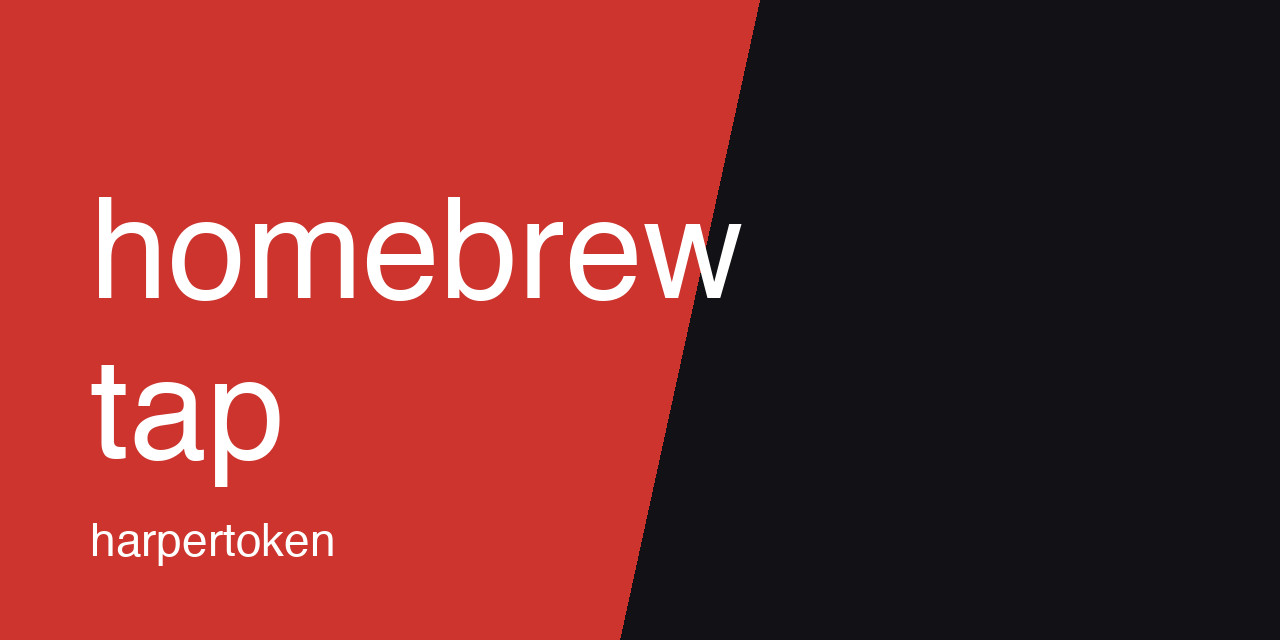
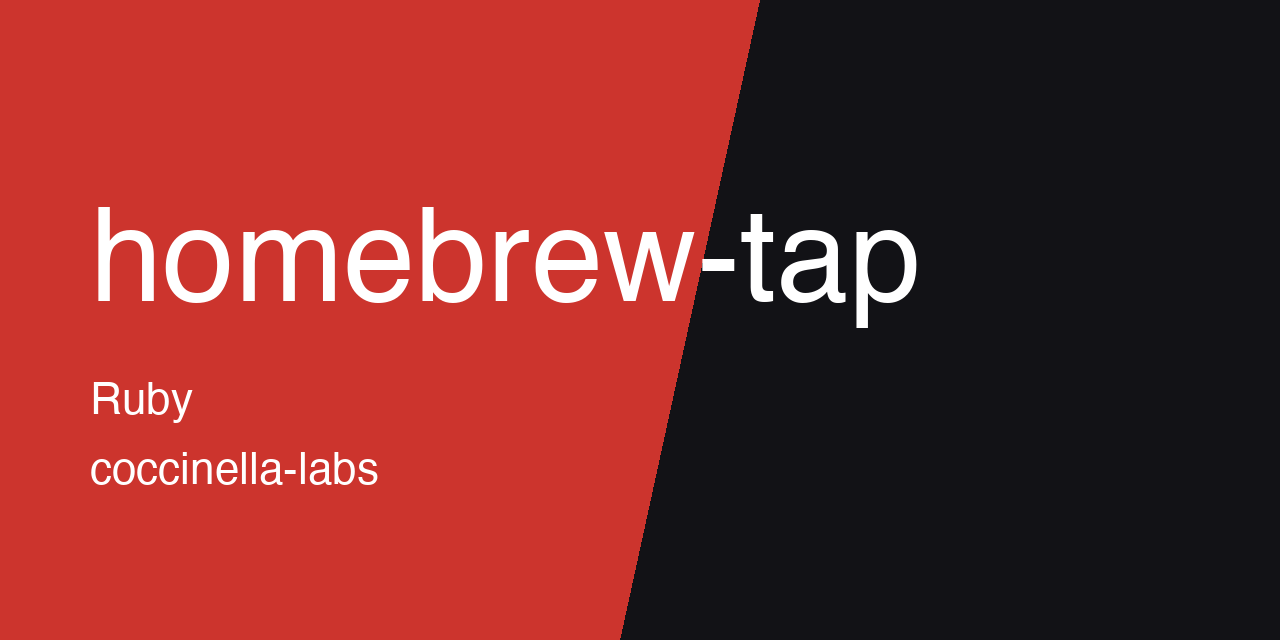
[docs] move thumbnail to coccinella-labs

Changed region(s): [[0.0625, 0.3125, 0.7188, 0.5312], [0.0625, 0.5625, 0.3125, 0.7812], [0.0625, 0.8125, 0.25, 0.875]]

diff --git a/README.md b/README.md
@@ -1,5 +1,5 @@
 <p align="center">
-  <img src="https://raw.githubusercontent.com/harpertoken/homebrew-tap/main/.github/assets/thumbnail.png" alt="homebrew-tap" width="100%">
+  <img src="https://raw.githubusercontent.com/Coccinella-Labs/homebrew-tap/main/.github/assets/thumbnail.png" alt="homebrew-tap" width="100%">
 </p>
 
 # homebrew-tap
